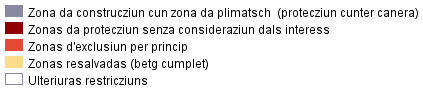
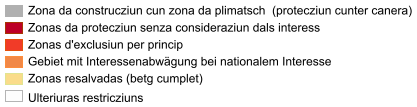
update ch.are.windenergie.bundesinteressen (#3537)
* addapt attribute names

* add legend images

* fix fallback language for rm and en

* remove wrong quotes

* change legend colours

Changed region(s): [[0.0, 0.0444, 0.9976, 0.9556]]

diff --git a/chsdi/static/less/extended.less b/chsdi/static/less/extended.less
@@ -91,22 +91,24 @@ body {
         }
       }
       .wind_kbik_1 {
-        background-color: #8989A0 !important;
+        background-color: rgb(176, 176, 176) !important;
         width: 14px;
         margin: 2px 0px 0px 0px;
       }
       .wind_kbik_2 {
-        background-color: #8F0000 !important;
+        background-color: rgb(189, 0, 38) !important;
       }
       .wind_kbik_3 {
-        background-color: #E34A33 !important;
+        background-color: rgb(241, 59, 40) !important;
       }
       .wind_kbik_4 {
-        background-color: #FADC8A !important;
-
+        background-color: rgb(241, 136, 71) !important;
       }
       .wind_kbik_5 {
-        background-color: #FFFFFF !important;
+        background-color: rgb(250, 220, 138) !important;
+      }
+      .wind_kbik_6 {
+        background-color: rgb(255, 255, 255) !important;
         width: 14px;
         margin: 2px 10px 0px 0px;
       }

diff --git a/chsdi/models/vector/are.py b/chsdi/models/vector/are.py
@@ -130,7 +130,7 @@ register('ch.are.gemeindetypen', Gemeindetypen_2012)
 
 
 class WindenergieBundesinteressen(Base, Vector):
-    __tablename__ = 'windenergie_bundesinteressen'
+    __tablename__ = 'windenergie_bundesint'
     __table_args__ = ({'schema': 'siedlung_landschaft', 'autoload': False})
     __template__ = 'templates/htmlpopup/windenergie_bundesinteressen.mako'
     __bodId__ = 'ch.are.windenergie-bundesinteressen'
@@ -138,18 +138,21 @@ class WindenergieBundesinteressen(Base, Vector):
     __extended_info__ = True
     id = Column('bgdi_id', Integer, primary_key=True)
     kbik = Column('kbik', Integer)
-    bik1_5_d = Column('bik1_5_d', Unicode)
-    bik1_5_fr = Column('bik1_5_fr', Unicode)
-    bik1_5_it = Column('bik1_5_it', Unicode)
-    bik2_d = Column('bik2_d', Unicode)
-    bik2_fr = Column('bik2_fr', Unicode)
-    bik2_it = Column('bik2_it', Unicode)
-    bik3_d = Column('bik3_d', Unicode)
-    bik3_fr = Column('bik3_fr', Unicode)
-    bik3_it = Column('bik3_it', Unicode)
-    bik4_d = Column('bik4_d', Unicode)
-    bik4_fr = Column('bik4_fr', Unicode)
-    bik4_it = Column('bik4_it', Unicode)
+    weitere_einschraenk_de = Column('weitere_einschraenk_de', Unicode)
+    weitere_einschraenk_fr = Column('weitere_einschraenk_fr', Unicode)
+    weitere_einschraenk_it = Column('weitere_einschraenk_it', Unicode)
+    schutzgeb_o_inter_de = Column('schutzgeb_o_inter_de', Unicode)
+    schutzgeb_o_inter_fr = Column('schutzgeb_o_inter_fr', Unicode)
+    schutzgeb_o_inter_it = Column('schutzgeb_o_inter_it', Unicode)
+    grunds_ausschlussgeb_de = Column('grunds_ausschlussgeb_de', Unicode)
+    grunds_ausschlussgeb_fr = Column('grunds_ausschlussgeb_fr', Unicode)
+    grunds_ausschlussgeb_it = Column('grunds_ausschlussgeb_it', Unicode)
+    inter_abwaeg_national_de = Column('inter_abwaeg_national_de', Unicode)
+    inter_abwaeg_national_fr = Column('inter_abwaeg_national_fr', Unicode)
+    inter_abwaeg_national_it = Column('inter_abwaeg_national_it', Unicode)
+    vorbehaltsgeb_de = Column('vorbehaltsgeb_de', Unicode)
+    vorbehaltsgeb_fr = Column('vorbehaltsgeb_fr', Unicode)
+    vorbehaltsgeb_it = Column('vorbehaltsgeb_it', Unicode)
     the_geom = Column(Geometry2D)
 
 register(WindenergieBundesinteressen.__bodId__, WindenergieBundesinteressen)
